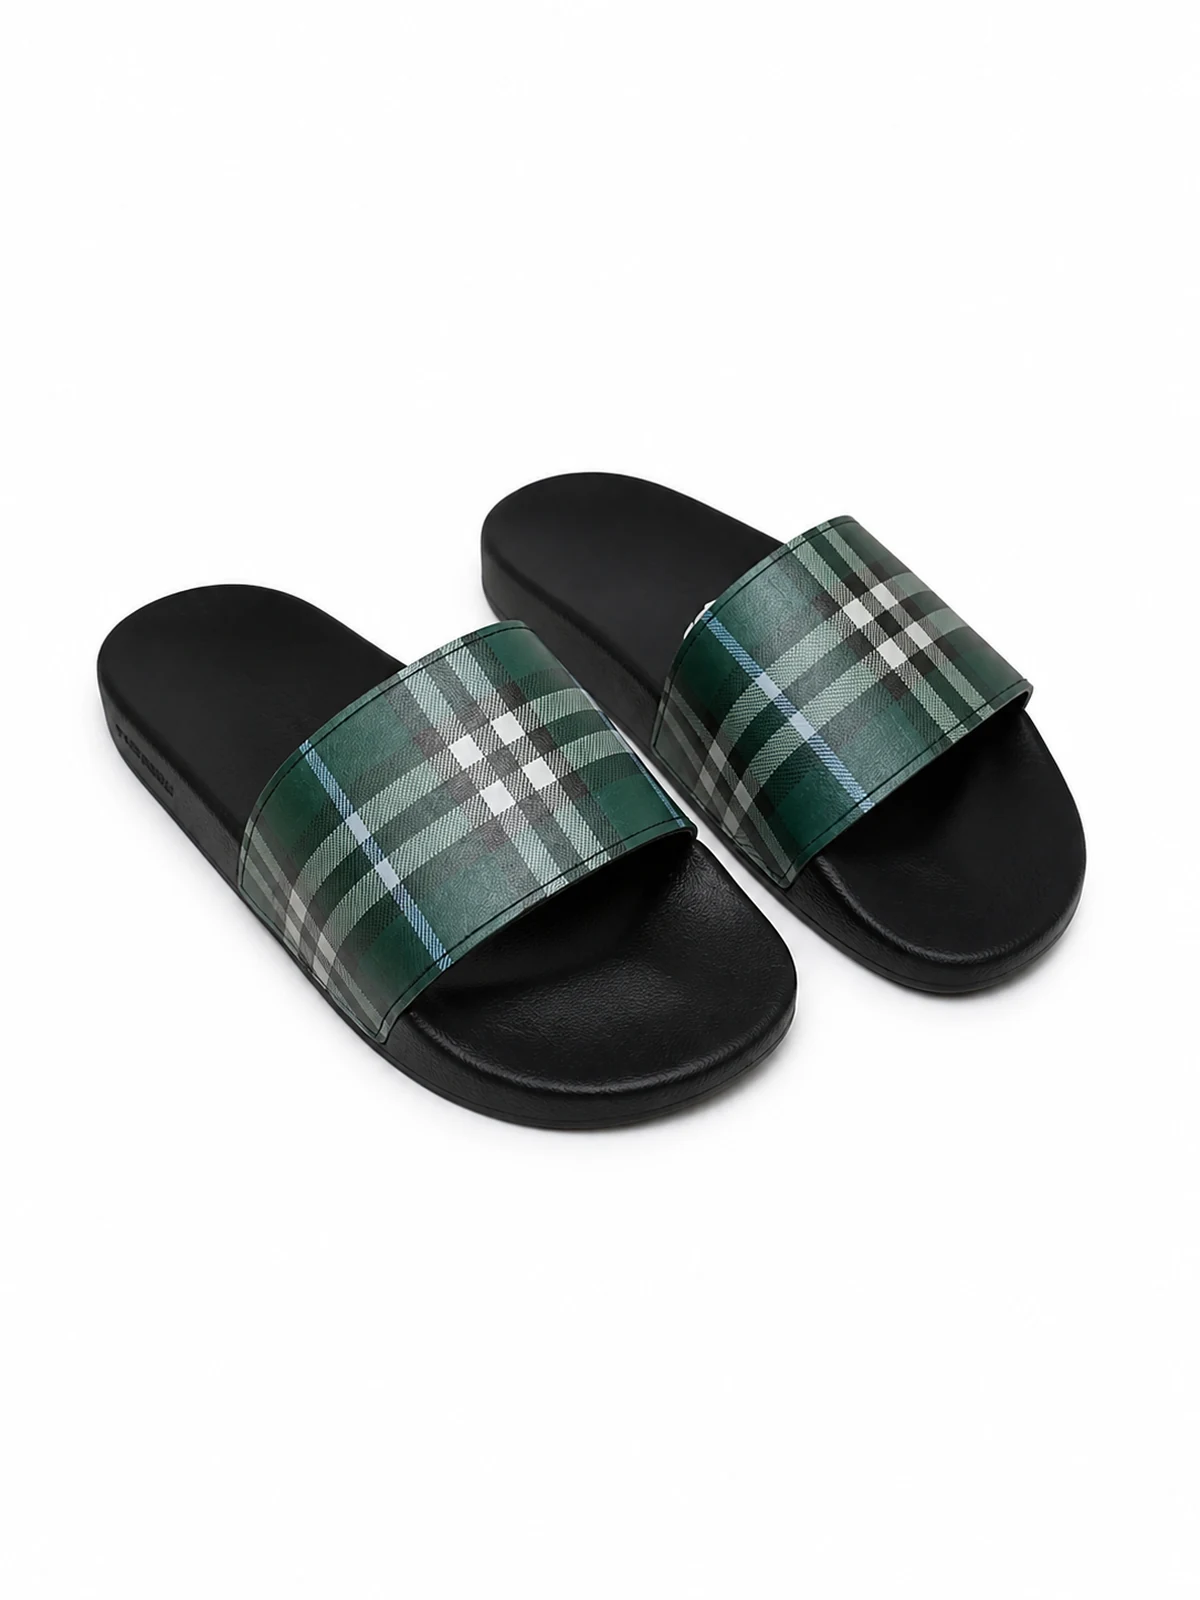
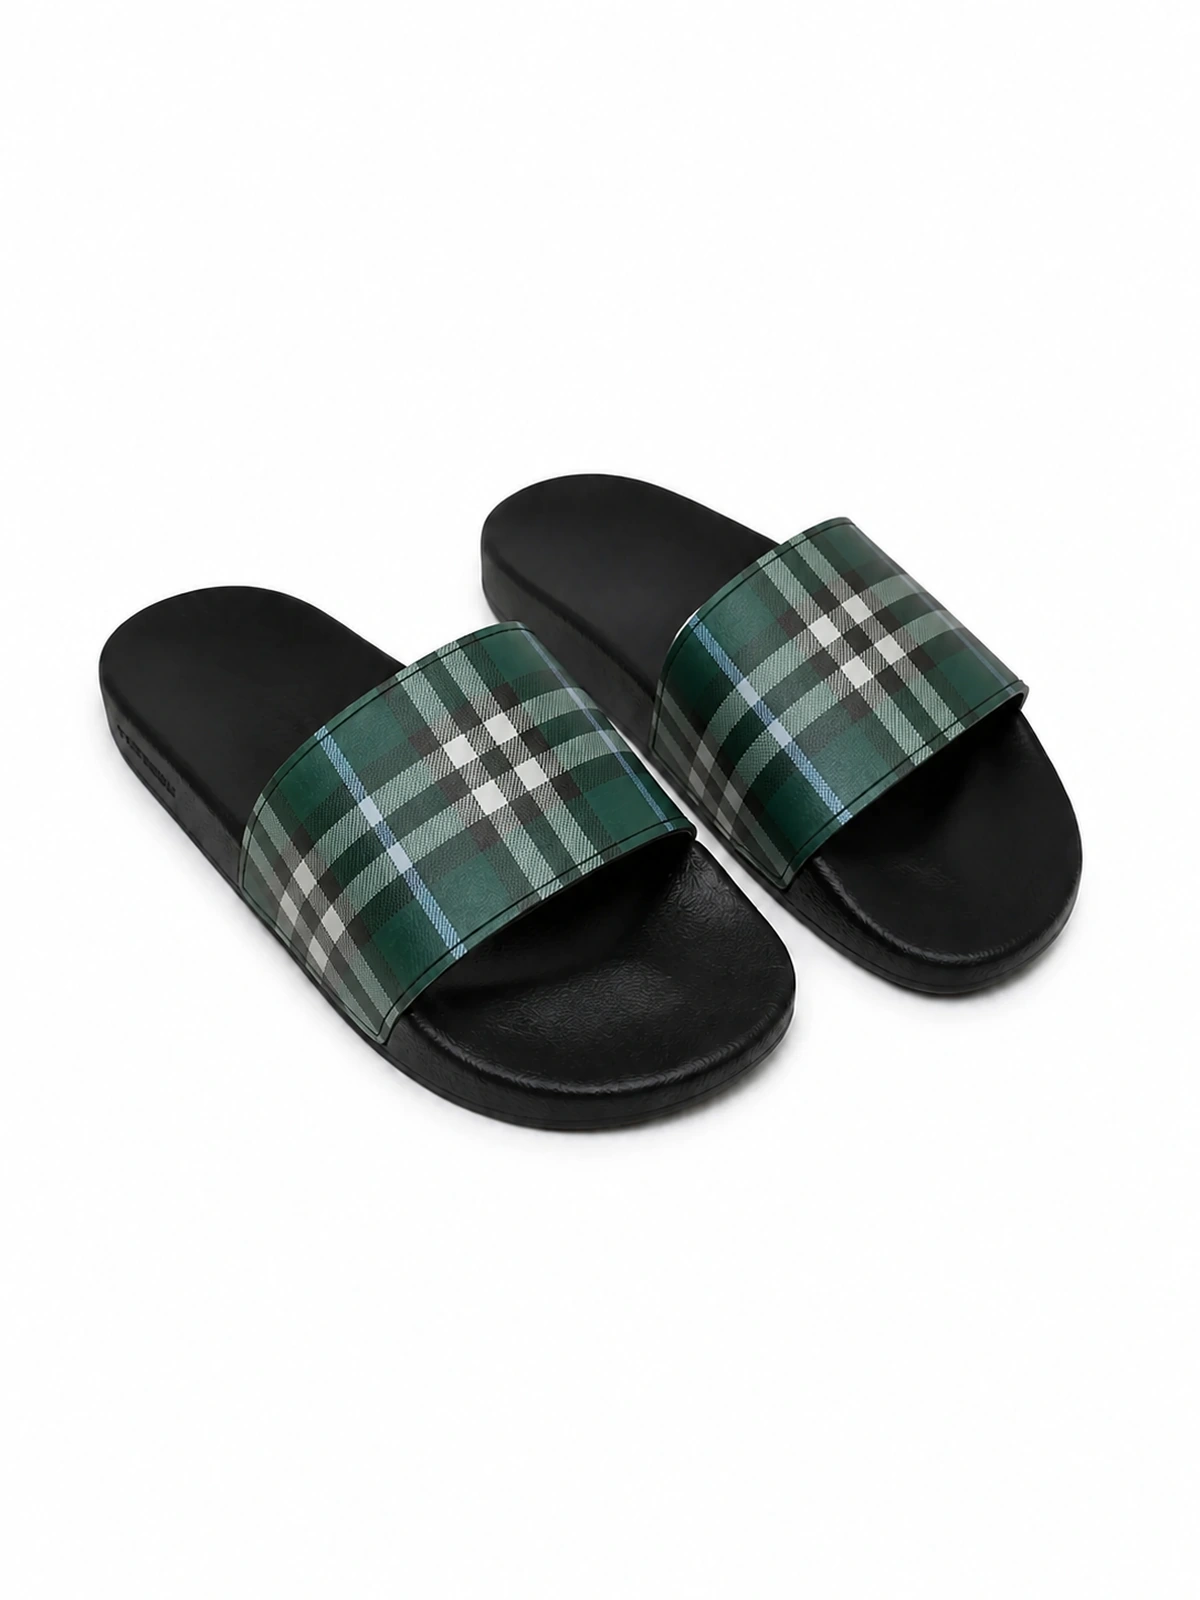
Corrige le motif de la Burberry verte

diff --git a/JOURNAL-DE-REPRISE.md b/JOURNAL-DE-REPRISE.md
@@ -996,3 +996,19 @@ les réglages publics. Contrôle sur `/femmes` : Tory Burch, Gucci Interlocking
 et Hermès Chaîne d'Ancre sont rendus, aucune erreur console et aucune image
 effectivement chargée n'est cassée. Les prix et stocks restent provisoires et
 doivent être remplacés par le propriétaire depuis le dashboard.
+
+### Session du 31 août 2026 — correction Burberry vert (terminée)
+
+Demande : reprendre les motifs du dessus de la variante verte Burberry, jugés
+infidèles. État Git : `main`; `design-qa.md` et `tmp/` non suivis restent hors
+portée. Fichiers envisagés : visuel produit vert, ses miniatures carte/coloris
+et journal uniquement. Risques : altérer la forme, le tartan, le logo ou les
+autres variantes ; la référence source doit être contrôlée avant toute
+retouche et le produit, le prix et le stock doivent rester inchangés.
+
+Résultat : le visuel studio vert a été régénéré à partir de la photo source
+avec une grille vert forêt plus fidèle, des bandes gris-vert et bleu clair
+mieux espacées, tout en conservant la paire, la semelle noire, l'angle et le
+fond blanc. `burberry-check-vert-studio.webp` a été remplacé en 1200 × 1600,
+ainsi que ses miniatures carte 480 × 640 et coloris 144 × 192. Aucun champ du
+produit, prix, stock, logo ou autre variante n'a été modifié.
